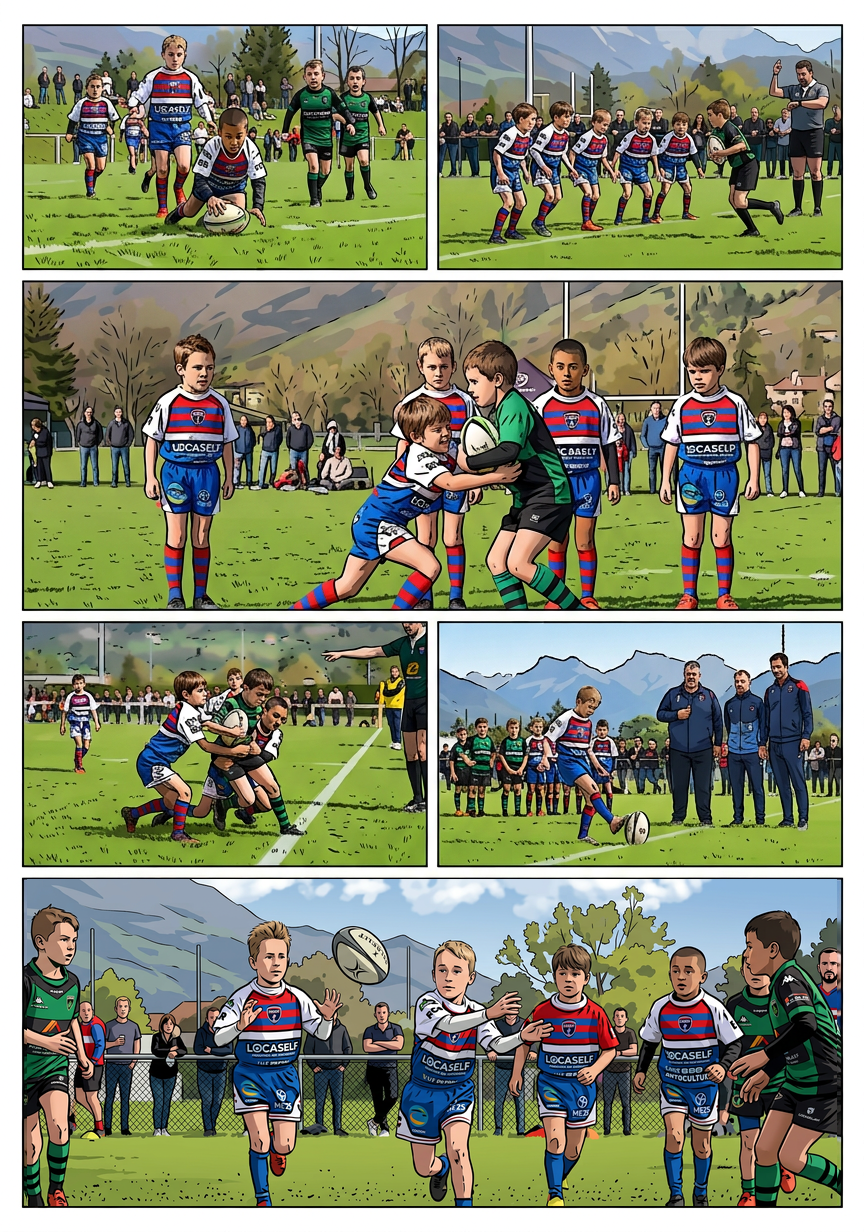
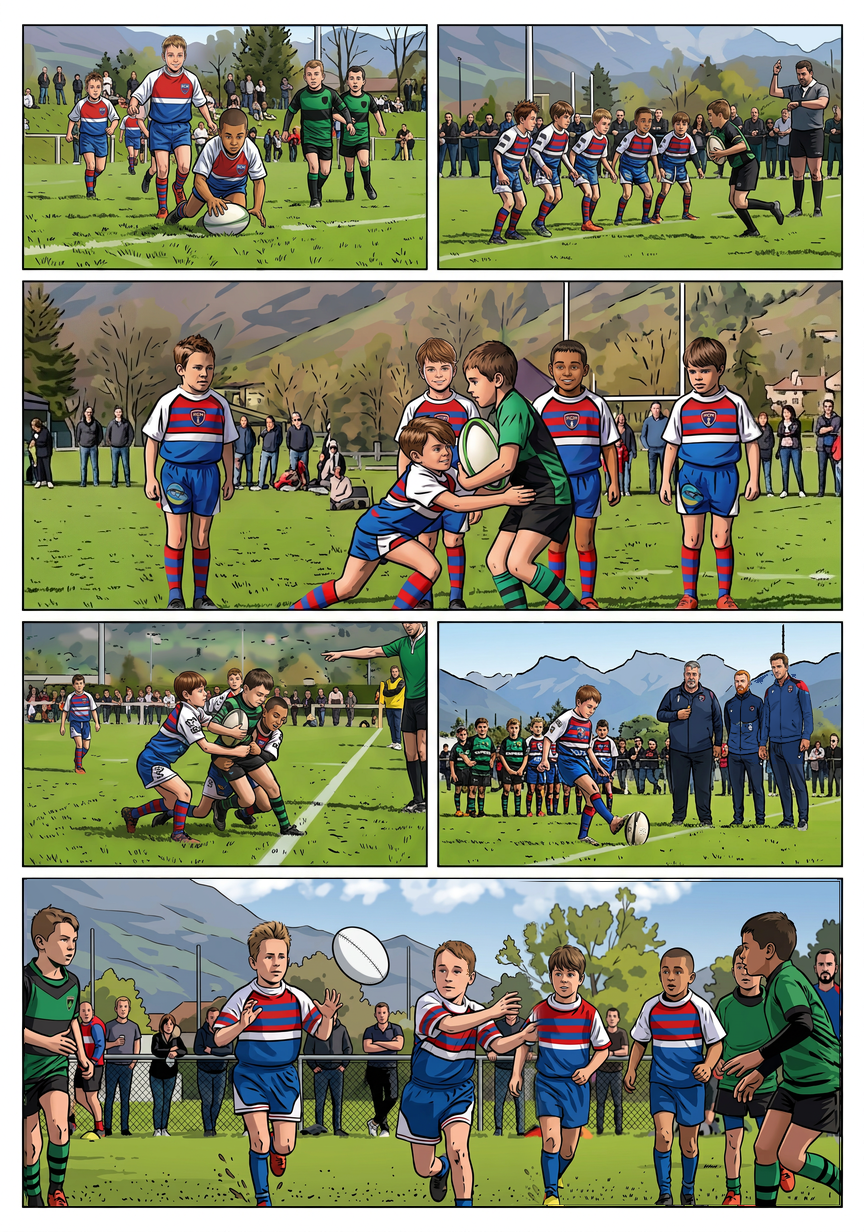
Revue couverture : reprises de premiere passe de la planche 28 (lot AF)

diff --git a/Planches-dessin/SUIVI-STYLE.md b/Planches-dessin/SUIVI-STYLE.md
@@ -2,7 +2,7 @@
 
 **La couverture `00-couverture-marvel.png` est désormais la seule référence de style et d’identité.** La décision utilisateur remplace la priorité V2 décrite dans l’historique ci-dessous. La couverture reste inchangée.
 
-Suivi actuel : [`validation/REVUE-COUVERTURE.md`](validation/REVUE-COUVERTURE.md) et son manifeste JSON : 153 vignettes inventoriées, 137 premières reprises, 1 contrôle sans retouche, 0 correction partielle, 15 autres contrôles individuels à faire, aucune validation définitive. Les anciennes approbations ne valent pas conformité au nouveau référentiel. La prise de 18/4 est reprise au lot U ; les raccords de 19/1 sont nettoyés au lot W, puis les cinq cases de 20 reprises au lot X. Planche 21 reprise au lot Y : souvenir mental de Flavien, gestes de réconciliation, visage clair d’Ayden isolé pour éviter sa confusion avec Nolann mat, et geste de Julien sur l’épaule de Flavien. Planche 22 reprise au lot Z : retour du printemps en manches courtes (suppression des sous-pulls d’hiver de 22-1), vestes marine des coachs (22-2 et 22-4), prise de parole de Léon/Lyssandro/Nolann (22-3) et clin d’œil complice de Milo (22-5). Planche 23 reprise au lot AA : quatre bandes horizontales (passe en ligne, défense alignée autour d’Ayden, plaquage bas et soutien autour de Lyssandro, regard de Flavien/Julien/Kilian en tenues marine). Planche 24 reprise au lot AB : cheveux châtain clair d’Ayden au portail de l’école (24-1), visage enfantin serein de Léon (24-2), et échanges père-fils entre Flavien et Léon à Saint-Sulpice (24-3 à 24-5). Planche 25 reprise au lot AC : panorama des équipes du tournoi final avec Flavien/Julien/Kilian en bleu marine (25-1), victoires contre Chambéry jaune/noir (25-2) et Albertville rouge/blanc avec plaquage bas de Nolann (25-3), pause eau des cinq copains avec les trois coachs (25-4) et entrée de Rumilly rouge/noir en manches courtes (25-5). Planche 26 reprise au lot AD : regroupement des cinq défenseurs du RCM et ailier de Rumilly démarqué debout en coin (26-1), essai en coin de Rumilly avec ballon unique (26-2), sortie tête basse de Nolann/Milo/Ayden sans halos aux oreilles ni textes parasites (26-3), et débrief avec Flavien/Julien/Kilian en bleu marine et prise de parole de Léon (26-4 à 26-6). Planche 27 reprise au lot AE : plaquage bas aux cuisses d’Ayden et défense en ligne (27-1), essai de Lyssandro soutenu par Ayden/Nolann/Léon (27-2), annonce au micro (27-3), face-à-face contre Montmélian (27-4) et cercle des cinq copains en tenues nettoyées (27-5). Prochaine planche : 28. Réserves transversales sur contacts de plaquage, âge/traits sous bonnets et conformité des motifs/écussons/sponsors des tenues. Aucune bulle ni texte de dialogue ajouté.
+Suivi actuel : [`validation/REVUE-COUVERTURE.md`](validation/REVUE-COUVERTURE.md) et son manifeste JSON : 153 vignettes inventoriées, 143 premières reprises, 1 contrôle sans retouche, 0 correction partielle, 9 autres contrôles individuels à faire, aucune validation définitive. Les anciennes approbations ne valent pas conformité au nouveau référentiel. La prise de 18/4 est reprise au lot U ; les raccords de 19/1 sont nettoyés au lot W, puis les cinq cases de 20 reprises au lot X. Planche 21 reprise au lot Y : souvenir mental de Flavien, gestes de réconciliation, visage clair d’Ayden isolé pour éviter sa confusion avec Nolann mat, et geste de Julien sur l’épaule de Flavien. Planche 22 reprise au lot Z : retour du printemps en manches courtes (suppression des sous-pulls d’hiver de 22-1), vestes marine des coachs (22-2 et 22-4), prise de parole de Léon/Lyssandro/Nolann (22-3) et clin d’œil complice de Milo (22-5). Planche 23 reprise au lot AA : quatre bandes horizontales (passe en ligne, défense alignée autour d’Ayden, plaquage bas et soutien autour de Lyssandro, regard de Flavien/Julien/Kilian en tenues marine). Planche 24 reprise au lot AB : cheveux châtain clair d’Ayden au portail de l’école (24-1), visage enfantin serein de Léon (24-2), et échanges père-fils entre Flavien et Léon à Saint-Sulpice (24-3 à 24-5). Planche 25 reprise au lot AC : panorama des équipes du tournoi final avec Flavien/Julien/Kilian en bleu marine (25-1), victoires contre Chambéry jaune/noir (25-2) et Albertville rouge/blanc avec plaquage bas de Nolann (25-3), pause eau des cinq copains avec les trois coachs (25-4) et entrée de Rumilly rouge/noir en manches courtes (25-5). Planche 26 reprise au lot AD : regroupement des cinq défenseurs du RCM et ailier de Rumilly démarqué debout en coin (26-1), essai en coin de Rumilly avec ballon unique (26-2), sortie tête basse de Nolann/Milo/Ayden sans halos aux oreilles ni textes parasites (26-3), et débrief avec Flavien/Julien/Kilian en bleu marine et prise de parole de Léon (26-4 à 26-6). Planche 27 reprise au lot AE : plaquage bas aux cuisses d’Ayden et défense en ligne (27-1), essai de Lyssandro soutenu par Ayden/Nolann/Léon (27-2), annonce au micro (27-3), face-à-face contre Montmélian (27-4) et cercle des cinq copains en tenues nettoyées (27-5). Planche 28 reprise au lot AF : essai d’égalisation de Nolann bras nus sur passe d’Ayden (28-1), montée défensive en ligne des cinq joueurs (28-2), plaquage bas de Lyssandro et mur défensif en manches courtes (28-3), plaquage en touche de Milo et Nolann (28-4), pénalité jouée par Ayden devant Julien/Kilian/Flavien en bleu marine (28-5) et passe tendue d’Ayden vers Léon avec Milo et Nolann en soutien sans manches longues ni textes parasites (28-6). Prochaine planche : 29. Réserves transversales sur contacts de plaquage, âge/traits sous bonnets et conformité des motifs/écussons/sponsors des tenues. Aucune bulle ni texte de dialogue ajouté.
 
 ---
 

diff --git a/Planches-dessin/validation/REVUE-COUVERTURE.md b/Planches-dessin/validation/REVUE-COUVERTURE.md
@@ -531,3 +531,9 @@ Procédure : identification au scénario → comparaison aux personnages de couv
 | `27-3` | 27 | `[440, 500, 840, 821]` | Corrigée 1re passe (relecture globale à faire) | Annonce du dernier match décisif : reprise en style couverture du speaker au micro à gauche, du public et des jeunes joueurs du RCM courant vers le terrain n°1 face à Montmélian en vert et noir. |
 | `27-4` | 27 | `[25, 837, 425, 1158]` | Corrigée 1re passe (relecture globale à faire) | Face-à-face RCM contre Montmélian : reprise à gauche des cinq joueurs du RCM alignés (Milo, Lyssandro, Léon, Nolann au teint mat, Ayden aux cheveux châtain clair) et à droite des cinq joueurs de Montmélian en vert et noir. |
 | `27-5` | 27 | `[440, 837, 840, 1158]` | Corrigée 1re passe (relecture globale à faire) | Cercle de motivation des cinq copains : reprise complète de Léon, Lyssandro, Nolann (teint mat), Ayden (cheveux châtain clair) et Milo bras dessus bras dessous en maillots et shorts du RCM nettoyés des inscriptions parasites (LOCASELF, SCASELF, RCR, NOLANN). |
+| `28-1` | 28 | `[25, 27, 425, 267]` | Corrigée 1re passe (relecture globale à faire) | Égalisation de Nolann (1-1) : reprise complète de Nolann (teint mat, cheveux courts foncés, avant-bras nus en manches courtes) aplatissant le ballon sur la ligne d'en-but après la passe d'Ayden (cheveux châtain clair, maillot nettoyé de l'inscription USASDX) avec Léon en soutien à gauche face à Montmélian. |
+| `28-2` | 28 | `[440, 27, 840, 267]` | Corrigée 1re passe (relecture globale à faire) | Montée en ligne défensive à 2-2 : reprise des cinq défenseurs du RCM montant en ligne (Léon, Lyssandro, Ayden aux cheveux châtain clair, Nolann au teint mat, Milo) face à l'attaquant de Montmélian sous le regard de l'arbitre indiquant une dernière minute. |
+| `28-3` | 28 | `[25, 283, 840, 608]` | Corrigée 1re passe (relecture globale à faire) | Mur défensif et plaquage bas de Lyssandro : reprise des six joueurs avec Lyssandro plaquant bas au niveau du short le porteur de Montmélian en vert et noir, entouré de Léon, Ayden (cheveux châtain clair), Nolann (teint mat) et Milo en manches courtes bras nus et maillots nettoyés des inscriptions parasites. |
+| `28-4` | 28 | `[25, 624, 425, 864]` | Corrigée 1re passe (relecture globale à faire) | Plaquage en touche de Milo et Nolann : reprise de Milo (frange châtain, bras nus) et Nolann (teint mat, cheveux courts foncés) entraînant l'ailier de Montmélian au-delà de la ligne de touche sous le geste de l'arbitre. |
+| `28-5` | 28 | `[440, 624, 840, 864]` | Corrigée 1re passe (relecture globale à faire) | Pénalité jouée à 5 mètres par Ayden : reprise d'Ayden (cheveux ramenés du blond au châtain clair) tapotant le ballon du pied devant Julien (sifflet jaune en main, veste bleu marine), Kilian (barbe rousse, veste bleu marine) et Flavien (survêtement bleu marine à épaules rouges). |
+| `28-6` | 28 | `[25, 881, 840, 1205]` | Corrigée 1re passe (relecture globale à faire) | Passe tendue d'Ayden vers Léon : reprise complète de la vignette par assemblage gauche/droite avec Ayden (cheveux châtain clair, bras nus) adressant une passe tendue vers Léon lancé à pleine vitesse à gauche, soutenus par Milo et Nolann (teint mat) à droite en maillots et shorts du RCM nettoyés de toutes les inscriptions (LOCASELF, SAVOIE MOTOCULTURE, ME25). |
